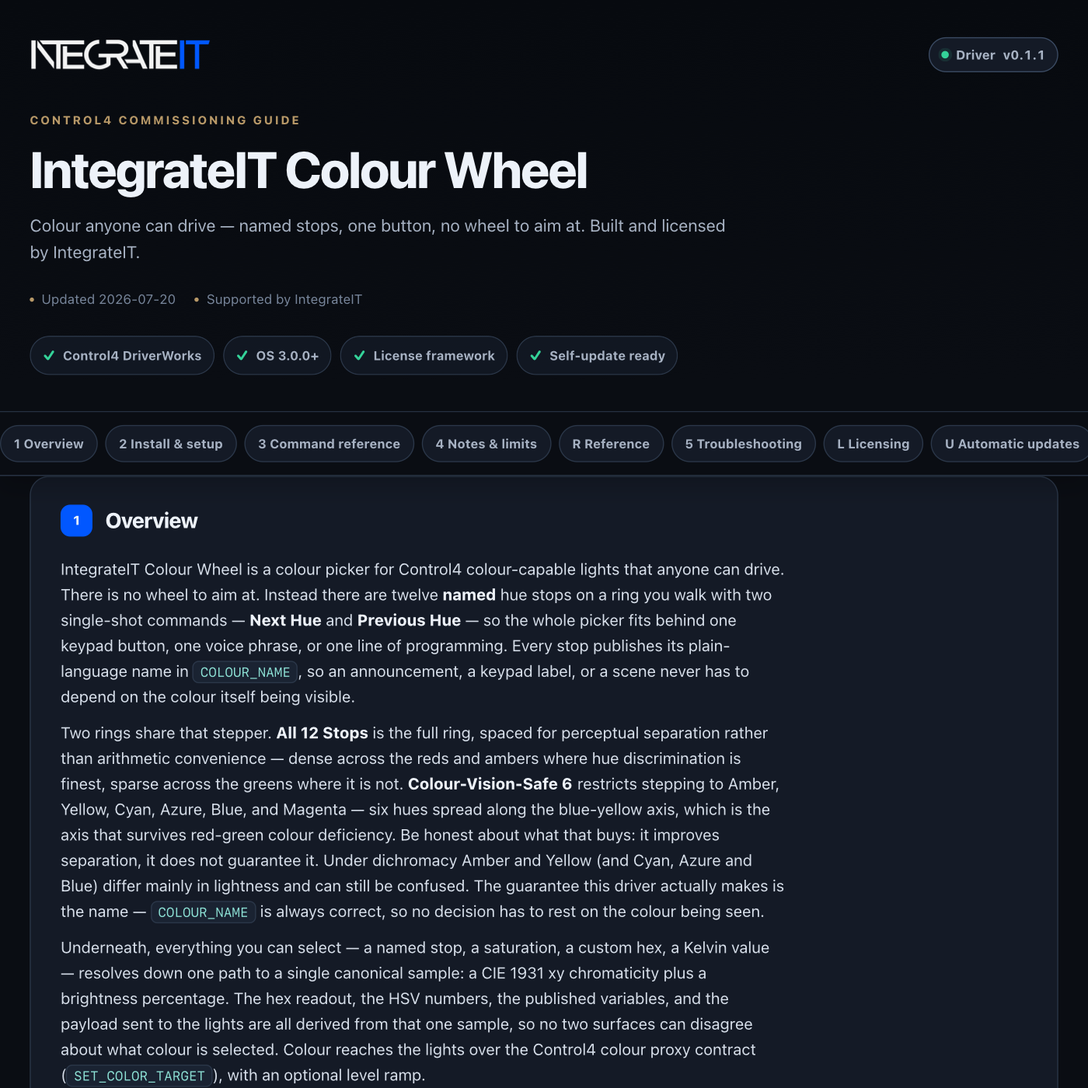
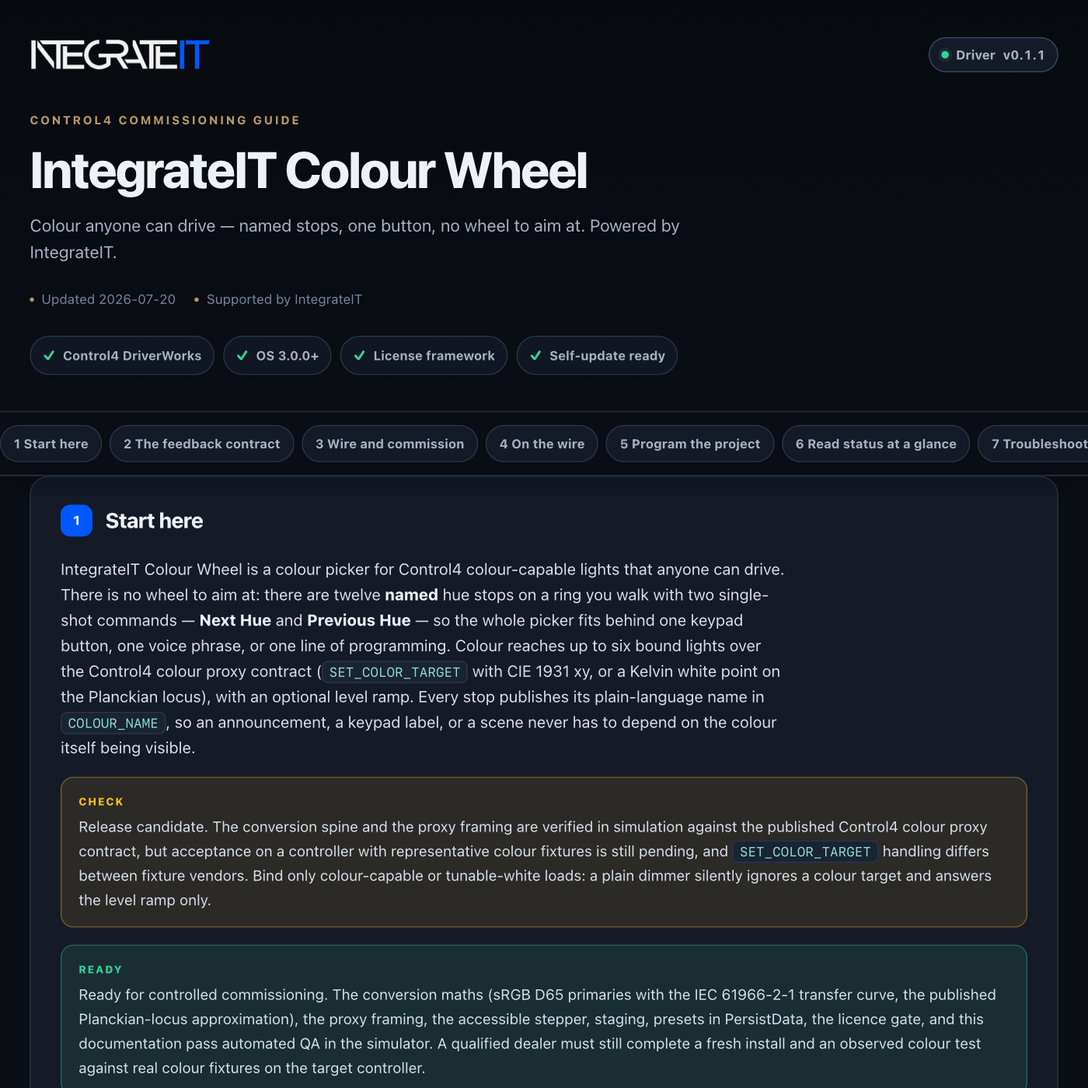
control4: publish driver channel (integrateit_colour_wheel 0.1.2)

diff --git a/control4/integrateit_colour_wheel/documentation.html b/control4/integrateit_colour_wheel/documentation.html
@@ -179,13 +179,13 @@ td code{white-space:normal}
     <div class="wrap">
       <div class="brandbar">
[1 lines of base64/hex data omitted]
-        <span class="version"><span class="word">Driver</span> v0.1.1</span>
+        <span class="version"><span class="word">Driver</span> v0.1.2</span>
       </div>
       <p class="eyebrow">Control4 commissioning guide</p>
       <h1>IntegrateIT Colour Wheel</h1>
-      <p class="sub">Colour anyone can drive — named stops, one button, no wheel to aim at. Built and licensed by IntegrateIT.</p>
+      <p class="sub">Colour anyone can drive — named stops, one button, no wheel to aim at. Powered by IntegrateIT.</p>
       <div class="meta">
-        <span>Updated 2026-07-20</span>
+        <span>Updated 2026-07-26</span>
         <span>Supported by IntegrateIT</span>
       </div>
       <div class="readiness" aria-label="Driver capabilities">
@@ -198,63 +198,125 @@ td code{white-space:normal}
   </header>
 
   <div class="toc-wrap">
-    <nav class="toc wrap" aria-label="Documentation sections"><a href="#overview">1 Overview</a><a href="#install">2 Install &amp; setup</a><a href="#commands">3 Command reference</a><a href="#notes">4 Notes &amp; limits</a><a href="#reference">R Reference</a><a href="#troubleshooting">5 Troubleshooting</a><a href="#licensing">L Licensing</a><a href="#updates">U Automatic updates</a><a href="#changelog">V Version history</a></nav>
+    <nav class="toc wrap" aria-label="Documentation sections"><a href="#overview">1 Start here</a><a href="#feedback">2 The feedback contract</a><a href="#setup">3 Wire and commission</a><a href="#protocol">4 On the wire</a><a href="#programming">5 Program the project</a><a href="#status">6 Read status at a glance</a><a href="#troubleshooting">7 Troubleshoot methodically</a><a href="#trust">8 Ownership, privacy, and licensing</a><a href="#reference">R Reference</a><a href="#licensing">L Licensing</a><a href="#updates">U Automatic updates</a><a href="#changelog">V Version history</a></nav>
   </div>
 
   <main class="wrap">
     <section class="card" id="overview" data-card="overview">
-  <h2><span class="n">1</span> Overview</h2>
-  <p>IntegrateIT Colour Wheel is a colour picker for Control4 colour-capable lights that anyone can drive. There is no wheel to aim at. Instead there are twelve <b>named</b> hue stops on a ring you walk with two single-shot commands — <b>Next Hue</b> and <b>Previous Hue</b> — so the whole picker fits behind one keypad button, one voice phrase, or one line of programming. Every stop publishes its plain-language name in <code>COLOUR_NAME</code>, so an announcement, a keypad label, or a scene never has to depend on the colour itself being visible.</p>
-  <p>Two rings share that stepper. <b>All 12 Stops</b> is the full ring, spaced for perceptual separation rather than arithmetic convenience — dense across the reds and ambers where hue discrimination is finest, sparse across the greens where it is not. <b>Colour-Vision-Safe 6</b> restricts stepping to Amber, Yellow, Cyan, Azure, Blue, and Magenta — six hues spread along the blue-yellow axis, which is the axis that survives red-green colour deficiency. Be honest about what that buys: it improves separation, it does not guarantee it. Under dichromacy Amber and Yellow (and Cyan, Azure and Blue) differ mainly in lightness and can still be confused. The guarantee this driver actually makes is the name — <code>COLOUR_NAME</code> is always correct, so no decision has to rest on the colour being seen.</p>
-  <p>Underneath, everything you can select — a named stop, a saturation, a custom hex, a Kelvin value — resolves down one path to a single canonical sample: a CIE 1931 xy chromaticity plus a brightness percentage. The hex readout, the HSV numbers, the published variables, and the payload sent to the lights are all derived from that one sample, so no two surfaces can disagree about what colour is selected. Colour reaches the lights over the Control4 colour proxy contract (<code>SET_COLOR_TARGET</code>), with an optional level ramp.</p>
+  <h2><span class="n">1</span> Start here</h2>
+  <p>IntegrateIT Colour Wheel is a colour picker for Control4 colour-capable lights that anyone can drive. There is no wheel to aim at: there are twelve <b>named</b> hue stops on a ring you walk with two single-shot commands — <b>Next Hue</b> and <b>Previous Hue</b> — so the whole picker fits behind one keypad button, one voice phrase, or one line of programming. Colour reaches up to six bound lights over the Control4 colour proxy contract (<code>SET_COLOR_TARGET</code> with CIE 1931 xy, or a Kelvin white point on the Planckian locus), with an optional level ramp. Every stop publishes its plain-language name in <code>COLOUR_NAME</code>, so an announcement, a keypad label, or a scene never has to depend on the colour itself being visible.</p>
+  <div class="note warn">Release candidate. The conversion spine and the proxy framing are verified in simulation against the published Control4 colour proxy contract, but acceptance on a controller with representative colour fixtures is still pending, and <code>SET_COLOR_TARGET</code> handling differs between fixture vendors. Bind only colour-capable or tunable-white loads: a plain dimmer silently ignores a colour target and answers the level ramp only.</div>
+  <div class="note good">Ready for controlled commissioning. The conversion maths (sRGB D65 primaries with the IEC 61966-2-1 transfer curve, the published Planckian-locus approximation), the proxy framing, the accessible stepper, staging, presets in PersistData, the licence gate, and this documentation pass automated QA in the simulator. A qualified dealer must still complete a fresh install and an observed colour test against real colour fixtures on the target controller.</div>
+  <p><b>What you get</b></p>
+  <ul>
+    <li>Twelve named hue stops on a perceptually-spaced ring — dense across the reds and ambers where hue discrimination is finest, sparse across the greens — stepped one button at a time, with no two-dimensional wheel to aim at</li>
+    <li>A <b>Colour-Vision-Safe 6</b> ring that restricts stepping to six hues along the blue-yellow axis, the axis that survives red-green colour deficiency</li>
+    <li>Every colour published by name (<code>COLOUR_NAME</code>) as well as by value, so a decision never has to rest on the colour being seen</li>
+    <li>One conversion spine — hue stop, saturation, custom hex, or Kelvin — resolving to a single CIE xy chromaticity plus a brightness, so no two readouts can disagree</li>
+    <li><b>Custom Colour (Hex)</b> accepting <code>#RRGGBB</code> and <code>#RGB</code>, raising an *Invalid Custom Colour* event on bad input and falling back cleanly to the hue stop</li>
+    <li>Full Colour (CIE xy) and Colour Temperature (2000-6500 K) modes across up to six bound lights, at a configurable transition rate</li>
+    <li>Four presets stored in PersistData that survive a controller reboot</li>
+    <li>MAC-locked IntegrateIT licensing with Lenient or Strict enforcement</li>
+  </ul>
 </section>
 
-<section class="card" id="install" data-card="install">
-  <h2><span class="n">2</span> Install &amp; setup</h2>
+<section class="card" id="feedback" data-card="feedback">
+  <h2><span class="n">2</span> The feedback contract</h2>
+  <p>This driver sends colour; it does not measure it. When you apply, it writes a CIE xy chromaticity (or a Kelvin white point) to every wired light and assumes the fixture obeyed. It has no way to confirm that, and it never pretends to.</p>
+  <ul>
+    <li><b>A non-colour-capable light silently ignores <code>SET_COLOR_TARGET</code>.</b> Nothing errors, nothing in the room changes. Bind only colour or tunable-white loads; a plain dimmer takes the optional level ramp and nothing else.</li>
+    <li><b><code>Reported Colour</code> is a passive readout, never a control signal.</b> A bound light can report <code>LIGHT_COLOR_CHANGED</code> / <code>LIGHT_COLOR_CHANGING</code>; the driver records it into <code>Reported Colour</code> and stops. It never re-applies from a report, so it does not detect or correct a fixture that has drifted — reconciling would ping-pong our send against the fixture's report forever, and rounding between our xy and the fixture's native space guarantees it never settles.</li>
+    <li><b>The driver never repaints a room on its own.</b> Boot, a Director restart, or editing <code>Number of Lights</code>, <code>Transition Rate (ms)</code>, or <code>Accessible Palette</code> refreshes the readouts only. Colour goes out when a colour property is edited (with <code>Apply On Change</code> = Yes), a stepper runs, <b>Apply Colour</b> runs, or a preset is recalled — never behind the homeowner's back.</li>
+    <li><b>The name is the guarantee, not the colour.</b> Colour-Vision-Safe 6 improves separation, it does not promise it: under dichromacy Amber and Yellow — and Cyan, Azure and Blue — differ mainly in lightness and can still be confused. The one thing this driver always gets right is the published name. <code>COLOUR_NAME</code> is always correct, so no decision has to rest on the colour being seen — anything claiming the colour itself is guaranteed distinguishable would be faking it.</li>
+  </ul>
+</section>
+
+<section class="card" id="setup" data-card="setup">
+  <h2><span class="n">3</span> Wire and commission</h2>
   <ol class="steps">
-    <li>Add the driver to a room. In Connections, bind each colour-capable light to <code>Light 1</code> … <code>Light N</code>.</li>
+    <li>Add <b>IntegrateIT Colour Wheel</b> to a room. In Connections, bind each colour-capable light to <code>Light 1</code> … <code>Light N</code> (up to six).</li>
     <li>Set <code>Number of Lights</code> to how many you wired. Bindings above that number are never driven.</li>
-    <li>Choose a <code>Colour Mode</code>. <b>Full Colour</b> picks a hue from the ring and sends CIE xy; <b>Colour Temperature</b> sends a white point on the Planckian locus between 2000 K and 6500 K.</li>
-    <li>Set <code>Accessible Palette</code>. Use <b>Colour-Vision-Safe 6</b> when the person operating the system has a red-green colour deficiency, or whenever the colour choice needs to survive being described over the phone.</li>
+    <li>Choose a <code>Colour Mode</code>: <b>Full Colour</b> picks a hue from the ring and sends CIE xy; <b>Colour Temperature</b> sends a white point on the Planckian locus between 2000 K and 6500 K.</li>
+    <li>Set <code>Accessible Palette</code>. Use <b>Colour-Vision-Safe 6</b> when the operator has a red-green colour deficiency, or whenever the choice needs to survive being described over the phone.</li>
     <li>Set <code>Transition Rate (ms)</code> for the fade, and <code>Set Light Level</code> to decide whether the driver also ramps each light to <code>Brightness (%)</code> or leaves level to your other programming.</li>
-    <li>Bind the accessible controls in Programming: put <b>Next Hue</b> on a keypad button, <b>Brighter</b> / <b>Dimmer</b> on a rocker, <b>Warmer</b> / <b>Cooler</b> on another pair. Each is a single command with no parameters, so a one-button remote, a voice scene, and a touch panel can all drive the same picker.</li>
-    <li>Optionally enter a <code>License Key</code> (see Licensing) — the driver runs in Lenient mode without one.</li>
+    <li>In Programming, put the accessible controls on hardware: <b>Next Hue</b> on a keypad button, <b>Brighter</b> / <b>Dimmer</b> on a rocker, <b>Warmer</b> / <b>Cooler</b> on another pair. Each is a single command with no parameters, so a one-button remote, a voice scene, and a touch panel all drive the same picker.</li>
+    <li>Optionally enter a licence key (see Ownership) — the driver runs in Lenient mode without one.</li>
+    <li>Prove it: run <b>Apply Colour</b>, or step <b>Next Hue</b>, and watch a bound light change while <code>Colour Name</code> updates. Then run <b>Announce Colour</b> to hear the picker read the colour back by name.</li>
   </ol>
 </section>
 
-<section class="card" id="commands" data-card="commands">
-  <h2><span class="n">3</span> Command reference</h2>
+<section class="card" id="protocol" data-card="protocol">
+  <h2><span class="n">4</span> On the wire</h2>
+  <p>Every apply sends <code>SET_COLOR_TARGET</code> to each wired binding, and <code>RAMP_TO_LEVEL</code> too when <code>Set Light Level</code> is Yes. What travels depends on the mode:</p>
+  <table>
+    <tr><th>Mode</th><th>Parameters on <code>SET_COLOR_TARGET</code></th></tr>
+    <tr><td>Full Colour</td><td><code>LIGHT_COLOR_TARGET_X</code> / <code>_Y</code> = CIE 1931 xy, <code>LIGHT_COLOR_TARGET_COLOR_MODE</code> = <code>0</code>, <code>RATE</code> = transition ms</td></tr>
+    <tr><td>Colour Temperature</td><td><code>LIGHT_COLOR_TARGET_X</code> = Kelvin, <code>_Y</code> = <code>0</code>, <code>LIGHT_COLOR_TARGET_COLOR_MODE</code> = <code>1</code>, <code>RATE</code> = transition ms</td></tr>
+  </table>
+  <p>The level ramp is <code>RAMP_TO_LEVEL</code> with <code>LEVEL</code> = <code>Brightness (%)</code> and <code>TIME</code> = the transition rate. Lights report back with <code>LIGHT_COLOR_CHANGED</code> / <code>LIGHT_COLOR_CHANGING</code> carrying <code>LIGHT_COLOR_CURRENT_X</code> / <code>_Y</code> / <code>_COLOR_MODE</code>, which the driver reads into <code>Reported Colour</code> and never answers.</p>
+  <div class="note warn">Colour Temperature mode carries the Kelvin value in the target X parameter with colour mode 1, per the proxy contract. Fixtures that accept only CIE xy should be driven in Full Colour mode instead.</div>
+</section>
+
+<section class="card" id="programming" data-card="programming">
+  <h2><span class="n">5</span> Program the project</h2>
   <table>
     <tr><th>Action</th><th>What it does</th></tr>
     <tr><td>Apply Colour</td><td>Push the current selection to every wired light.</td></tr>
-    <tr><td>Next Hue / Previous Hue</td><td>Step one named stop along the active ring, wrapping at the ends. Switches to Full Colour mode if the driver was on the Kelvin locus.</td></tr>
+    <tr><td>Next Hue / Previous Hue</td><td>Step one named stop along the active ring, wrapping at the ends. Switches to Full Colour and clears <code>Custom Colour (Hex)</code> — a hue press is an explicit request for a named stop.</td></tr>
     <tr><td>Warmer / Cooler</td><td>Step <code>Colour Temperature (K)</code> by 250 K, clamped to 2000-6500. Switches to Colour Temperature mode.</td></tr>
-    <tr><td>Brighter / Dimmer</td><td>Step <code>Brightness (%)</code> by 10, clamped to 1-100.</td></tr>
-    <tr><td>Save Preset / Recall Preset</td><td>Store or restore the whole selection in the slot named by <code>Preset Slot</code>. Presets survive a controller reboot.</td></tr>
-    <tr><td>Announce Colour</td><td>Print the current colour — name, hex, chromaticity, brightness — to the Lua output window and to <code>Status</code>. Works without a license because it drives nothing.</td></tr>
-    <tr><td>Print Configuration</td><td>Print the full picker configuration, including which preset slots are filled.</td></tr>
+    <tr><td>Brighter / Dimmer</td><td>Step <code>Brightness (%)</code> by 10, clamped to 1-100. Only reaches a fixture when <code>Set Light Level</code> is Yes.</td></tr>
+    <tr><td>Save Preset / Recall Preset</td><td>Store or restore the whole selection in the slot named by <code>Preset Slot</code>. A recall applies even when <code>Apply On Change</code> is No — recalling is itself the request.</td></tr>
+    <tr><td>Announce Colour</td><td>Print the current colour — name, hex, chromaticity, brightness — to the Lua window and <code>Status</code>. Works unlicensed because it drives nothing.</td></tr>
+    <tr><td>Print Configuration</td><td>Print the full picker configuration, including whether the selected preset slot is filled.</td></tr>
   </table>
-  <p><b>Events:</b> *Colour Applied*, *Hue Stop Changed*, *Colour Mode Changed*, *Preset Saved*, *Preset Recalled*, *Invalid Custom Colour*. <b>Variables:</b> <code>COLOUR_NAME</code>, <code>COLOUR_HEX</code>, <code>COLOUR_HUE</code>, <code>COLOUR_SATURATION</code>, <code>COLOUR_BRIGHTNESS</code>, <code>COLOUR_KELVIN</code>, <code>COLOUR_CIE_X</code>, <code>COLOUR_CIE_Y</code>, <code>COLOUR_MODE</code>.</p>
+  <p><b>Events:</b> *Colour Applied*, *Hue Stop Changed*, *Colour Mode Changed*, *Preset Saved*, *Preset Recalled*, *Invalid Custom Colour*.</p>
+  <p><b>Variables:</b> <code>COLOUR_NAME</code>, <code>COLOUR_HEX</code>, <code>COLOUR_HUE</code>, <code>COLOUR_SATURATION</code>, <code>COLOUR_BRIGHTNESS</code>, <code>COLOUR_KELVIN</code>, <code>COLOUR_CIE_X</code>, <code>COLOUR_CIE_Y</code>, <code>COLOUR_MODE</code>.</p>
+  <ul>
+    <li><b>One-button colour cycle.</b> Bind a keypad button to <b>Next Hue</b>. Each press walks the active ring and fires *Hue Stop Changed*; speak <code>COLOUR_NAME</code> on that event so a voice scene names the new colour.</li>
+    <li><b>Accessible scene by name.</b> On *Colour Applied*, push <code>COLOUR_NAME</code> and <code>COLOUR_HEX</code> to a keypad label or an announcement — the colour stays legible even to someone who cannot see it.</li>
+    <li><b>Guard a typed colour.</b> Watch *Invalid Custom Colour* to learn that a hex did not parse and the driver fell back to the hue stop; light a "check the hex" indicator instead of leaving the operator guessing.</li>
+  </ul>
+  <div class="note"><code>Custom Colour (Hex)</code> contributes hue and saturation only — its value is ignored on purpose so <code>Brightness (%)</code> owns level and dimming never shifts the hue. <code>Saturation (%)</code> = 0 is white (the D65 point) whatever hue stop is selected, and a grey custom hex resolves to <code>Custom White</code>.</div>
 </section>
 
-<section class="card" id="notes" data-card="notes">
-  <h2><span class="n">4</span> Notes &amp; limits</h2>
-  <ul>
-    <li><b>The driver never repaints a room on its own.</b> Loading the driver, restarting Director, or editing <code>Number of Lights</code>, <code>Transition Rate (ms)</code>, or <code>Accessible Palette</code> refreshes the readouts only. Colour goes out when a colour property is edited (with <code>Apply On Change</code> = Yes), when a stepper action runs, when <b>Apply Colour</b> runs, or when a preset is recalled.</li>
-    <li><b><code>Apply On Change</code> = No stages instead.</b> The readouts and variables preview the staged colour and <code>Status</code> says so, but no light is touched until <b>Apply Colour</b> runs. A <b>Recall Preset</b> applies regardless — recalling is itself the request.</li>
-    <li><b>A hue step retires <code>Custom Colour (Hex)</code>.</b> The hex outranks the hue stop, so stepping the ring underneath one would move the selection and repaint nothing. <b>Next Hue</b> / <b>Previous Hue</b> clear the field and say so in <code>Status</code> — pressing a hue button is an explicit request for a named stop. A custom hex names itself by its nearest named stop (<code>Custom Azure</code>), never by its hex code, so it stays speakable.</li>
-    <li><b><code>Brighter</code> / <code>Dimmer</code> need <code>Set Light Level</code> = Yes.</b> Brightness only reaches a fixture through the level ramp. With <code>Set Light Level</code> = No the step is recorded and published but nothing is sent, and <code>Status</code> says so rather than reporting a push.</li>
-    <li><b>Presets are controller-local.</b> They live in <code>PersistData</code>, which is not carried in a Composer project export. Restoring a project onto a different controller starts with four empty slots.</li>
-    <li><b><code>Custom Colour (Hex)</code> contributes hue and saturation only.</b> Its value component is deliberately ignored so <code>Brightness (%)</code> owns level and dimming never shifts the hue. <code>#RRGGBB</code> and <code>#RGB</code> are both accepted; a grey hex has no hue to take and resolves to white. Anything unparseable raises *Invalid Custom Colour* and the selected hue stop is used instead. Leave the field blank to use the ring.</li>
-    <li><b><code>Saturation (%)</code> = 0 is white</b> — the D65 white point — whatever hue stop is selected.</li>
-    <li><b>Restricting the ring does not move you.</b> Switching to Colour-Vision-Safe 6 while parked on an excluded stop leaves the current colour alone; the next <b>Next Hue</b> / <b>Previous Hue</b> walks into the restricted set in the direction you pressed.</li>
-    <li><b><code>Reported Colour</code> is passive.</b> It shows what a bound light last reported and nothing more. The driver never re-applies from a report — doing so would loop against the fixture forever — so it does not detect or correct a light that has drifted.</li>
-    <li><b>Colour Temperature mode</b> sends the Kelvin value in the target X parameter with colour mode 1. Fixtures that accept only CIE xy should be driven in Full Colour mode.</li>
-    <li><b><code>Colour Hex</code> is a readout.</b> It renders the selected chromaticity in sRGB at full value; chromaticities outside the sRGB gamut (reachable at the Kelvin extremes) are clipped for that readout only. The xy sent to the light is never clipped.</li>
-  </ul>
+<section class="card" id="status" data-card="status">
+  <h2><span class="n">6</span> Read status at a glance</h2>
+  <table>
+    <tr><th>Readout</th><th>What it means</th></tr>
+    <tr><td><code>Colour Name</code></td><td>Plain-language name of the current colour — a named stop, <code>Custom Azure</code>, or <code>2700 K Warm White</code>. Starts at <code>Not applied</code>.</td></tr>
+    <tr><td><code>Colour Hex</code></td><td>The current chromaticity rendered as sRGB hex at full value. A preview only, gamut-clipped at the Kelvin extremes; the xy sent to the light is never clipped. Starts at <code>Not applied</code>.</td></tr>
+    <tr><td><code>Colour Point</code></td><td>The CIE xy actually sent (plus Kelvin, in Colour Temperature mode). Trust this over <code>Colour Hex</code> for what the fixture receives. Starts at <code>Not applied</code>.</td></tr>
+    <tr><td><code>Reported Colour</code></td><td>What a bound light last reported. Passive — the driver never re-applies from it. Starts at <code>No report</code>.</td></tr>
+    <tr><td><code>Status</code></td><td>The last thing that happened: <code>Idle</code>, an apply line, <code>Staged … - run Apply Colour</code>, or a caveat (a bad hex, or <code>Set Light Level</code> is No so no level was sent).</td></tr>
+    <tr><td><code>License Status</code></td><td>Activated, or Lenient during commissioning. Enter a key before selecting Strict enforcement.</td></tr>
+  </table>
+  <p>The nine variables mirror the readouts for programming and always agree with each other, because they come from the one resolved sample — drive automation from <code>COLOUR_MODE</code>, <code>COLOUR_NAME</code>, and <code>COLOUR_KELVIN</code> with confidence. <b>Print Configuration</b> dumps the whole picker state — lights, rate, mode, ring, selection, last applied, last reported, and which preset slot is filled — to the Lua output window, and never prints the license key.</p>
+</section>
+
+<section class="card" id="troubleshooting" data-card="troubleshooting">
+  <h2><span class="n">7</span> Troubleshoot methodically</h2>
+  <table>
+    <tr><th>Symptom</th><th>Likely cause</th><th>Fix</th></tr>
+    <tr><td>Nothing happens at all</td><td>Strict enforcement on an unlicensed controller</td><td>Check <code>License Status</code>; Lenient mode keeps control enabled without a key.</td></tr>
+    <tr><td>A light does not change colour</td><td>Not colour-capable, or the binding is above <code>Number of Lights</code></td><td>Bind a colour or tunable-white load; raise <code>Number of Lights</code> to cover every wired binding.</td></tr>
+    <tr><td>Colour changes but level does not</td><td><code>Set Light Level</code> is No</td><td>Set it to Yes, or drive level from your own programming.</td></tr>
+    <tr><td>Nothing goes out when a property is edited</td><td><code>Apply On Change</code> is No</td><td>Run <b>Apply Colour</b>, or set <code>Apply On Change</code> to Yes. A <b>Recall Preset</b> applies regardless.</td></tr>
+    <tr><td>Next Hue does not change the lights</td><td><code>Apply On Change</code> is No, so the step only staged, or the bound light is not colour-capable</td><td>Read <code>Hue Stop</code> and <code>Colour Name</code> — a step always advances them, so the press did register; run <b>Apply Colour</b> if you are staging, and confirm the load is colour-capable.</td></tr>
+    <tr><td>The custom colour is ignored</td><td><code>Custom Colour (Hex)</code> did not parse, or the driver is in Colour Temperature mode</td><td>Check <code>Status</code> and the *Invalid Custom Colour* event; use <code>#RRGGBB</code>, and switch <code>Colour Mode</code> to Full Colour.</td></tr>
+    <tr><td>The white looks wrong at the extremes</td><td>2000 K and 6500 K sit near the edge of an sRGB readout</td><td>Trust <code>Colour Point</code> (the xy actually sent) over <code>Colour Hex</code> (the rendered preview).</td></tr>
+    <tr><td>A recalled preset comes up empty</td><td>Presets live in PersistData, which is not carried in a project export</td><td>Presets are controller-local; re-save them after restoring a project onto a different controller.</td></tr>
+  </table>
+  <div class="note">Turn on <code>Debug Mode → Print</code> to watch colour reports arrive from the lights, and run <b>Print Configuration</b> for a one-shot dump of the whole picker state. If a colour still will not land after these checks, contact support@integrateit.tech.</div>
+</section>
+
+<section class="card" id="trust" data-card="trust">
+  <h2><span class="n">8</span> Ownership, privacy, and licensing</h2>
+  <p>This package is an original IntegrateIT implementation of the documented Control4 colour proxy contract (<code>SET_COLOR_TARGET</code> / <code>RAMP_TO_LEVEL</code> on a LIGHT_V2 binding). The conversion maths are public standards — sRGB D65 primaries with the IEC 61966-2-1 transfer curve, and the published cubic approximation of the Planckian locus. It bundles no other vendor's runtime, source, brand assets, trial system, or license. Driver engineering, Control4 integration, the accessible design, documentation, QA, licensing, updates, and support are provided by IntegrateIT.</p>
+  <p>Nothing leaves the LAN. The driver sends colour targets to your bound Control4 lights and reads their colour reports back; no colour, project identity, or Control4 credential is sent to any device vendor or off-controller service. Presets live in this controller's PersistData, which is not carried in a Composer project export — restoring a project onto a different controller starts with four empty slots. The shared IntegrateIT license and update services use the controller identity, driver slug, version, configured license key, and update channel as documented in the reference below; the license key is never logged.</p>
+  <p>Lenient mode allows commissioning without an activated key and keeps <code>License Status</code> visible. Strict mode blocks every path that drives a light — Apply, the steppers, Save / Recall Preset — until the Ops Portal has minted and validated a key for that controller; <b>Announce Colour</b> and <b>Print Configuration</b> stay available either way, because they read the picker without touching a light. Installing this package does not itself mint or activate a controller license.</p>
 <section class="card" id="reference" data-card="reference">
   <h2><span class="n">R</span> Reference</h2>
-  <p>Generated from the driver manifest at build time — always matches this build (v0.1.1).</p>
+  <p>Generated from the driver manifest at build time — always matches this build (v0.1.2).</p>
   <h3>Properties</h3>
   <table>
     <tr><th>Property</th><th>Type</th><th>Default</th><th>Description</th></tr>
@@ -322,21 +384,6 @@ td code{white-space:normal}
   </table>
 </section>
 </section>
-
-<section class="card" id="troubleshooting" data-card="troubleshooting">
-  <h2><span class="n">5</span> Troubleshooting</h2>
-  <table>
-    <tr><th>Symptom</th><th>Likely cause</th><th>Fix</th></tr>
-    <tr><td>A light does not change colour</td><td>It is not colour-capable, or the binding is above <code>Number of Lights</code></td><td>Bind a colour or tunable-white load; raise <code>Number of Lights</code> to cover every wired binding.</td></tr>
-    <tr><td>Colour changes but level does not</td><td><code>Set Light Level</code> is No</td><td>Set it to Yes, or drive level from your own programming.</td></tr>
-    <tr><td>Nothing goes out when a property is edited</td><td><code>Apply On Change</code> is No</td><td>Run <b>Apply Colour</b>, or set <code>Apply On Change</code> to Yes.</td></tr>
-    <tr><td>Next Hue seems to do nothing</td><td>The colour-vision-safe ring was on and the step landed where you already were, or the light is not colour-capable</td><td>Check <code>Hue Stop</code> and <code>Colour Name</code> after the press — they are the ground truth for what the button did.</td></tr>
-    <tr><td>The custom colour is ignored</td><td><code>Custom Colour (Hex)</code> did not parse, or the driver is in Colour Temperature mode</td><td>Check <code>Status</code> and the *Invalid Custom Colour* event; use <code>#RRGGBB</code>, and switch <code>Colour Mode</code> to Full Colour.</td></tr>
-    <tr><td>The white looks wrong at the extremes</td><td>2000 K and 6500 K sit near the edge of what an sRGB readout can show</td><td>Trust <code>Colour Point</code> (the xy actually sent) over <code>Colour Hex</code> (the rendered preview).</td></tr>
-    <tr><td>Nothing happens at all</td><td>Strict enforcement + unlicensed</td><td>Check <code>License Status</code>; Lenient mode keeps control enabled without a key.</td></tr>
-  </table>
-  <div class="note">Turn on <code>Debug Mode → Print</code> to watch colour reports arrive from the lights, and run <b>Print Configuration</b> for a one-shot dump of the whole picker state.</div>
-</section>
 <section class="card" id="licensing" data-card="licensing">
   <h2><span class="n">L</span> Licensing</h2>
   <p>This driver is licensed <b>per controller</b>. Each license key locks to one controller's
@@ -384,7 +431,9 @@ td code{white-space:normal}
     <section class="card" id="changelog" data-card="changelog">
   <h2><span class="n">V</span> Version history</h2>
   <div class="chg">
-    <div class="rel"><b>v0.1.1</b> <span class="pill green">current</span><span class="d">2026-07-20</span>
+    <div class="rel"><b>v0.1.2</b> <span class="pill green">current</span><span class="d">2026-07-26</span>
+      <ul><li>Documentation rebuilt to the IntegrateIT commissioning-guide standard: uniform sections, honest contracts, verified claim-by-claim against the code.</li></ul></div>
+    <div class="rel"><b>v0.1.1</b><span class="d">2026-07-20</span>
       <ul><li>**Next Hue / Previous Hue were dead buttons under a custom hex.** `Custom Colour (Hex)` outranks the hue stop in the resolve spine, so a step moved the property, fired *Hue Stop Changed*, and pushed the same colour — the picker announced a stop the room did not show. A step now retires the override and says so; pressing a hue button is an explicit request for a named stop.</li><li>**Property echoes applied a second time.** `C4:UpdateProperty` calls back into `OnPropertyChanged` on a controller, which the simulator's stub does not model. A preset recall writes six watched properties before its own deliberate apply — seven colour pushes and seven *Colour Applied* events for one press, 42 proxy commands across six lights. Internal writes now run under a re-entrancy guard that `OnDevicePropertyChanged` honours.</li><li>**A recall of a legacy or truncated preset could error mid-restore.** `PersistData` outlives the code that wrote it; stored fields went straight to `UpdateProperty`, where a nil throws and a `tostring(nil)` leaves the literal string "nil" in a dealer's property. Every field is now coerced and clamped, and a non-table slot reads as empty.</li><li>**A custom hex named itself with its hex code.** "Custom #4488CC" is a value, not a name, and a speakable name is this driver's entire accessibility premise. Custom colours now name themselves by nearest named stop ("Custom Azure"); the exact value stays in `COLOUR_HEX`.</li><li>**Brighter / Dimmer were silently invisible with `Set Light Level` = No.** Brightness only reaches a fixture through the level ramp. The step is still recorded and published, but `Status` now admits no level was sent instead of reporting a colour push.</li><li>**The Colour-Vision-Safe 6 claim overclaimed.** Six hues on the blue-yellow axis survive red-green deficiency far better than the full ring, but they are not mutually distinguishable under dichromacy — Amber/Yellow and Cyan/Azure/Blue differ mainly in lightness. Catalog copy, limitations, and documentation now say what is true, and name the published `COLOUR_NAME` as the guarantee that actually holds. Two further real limitations documented: the hue-step/hex interaction, and that presets are controller-local because `PersistData` is not carried in a project export.</li></ul></div>
     <div class="rel"><b>v0.1.0</b><span class="d">2026-07-20</span>
       <ul><li>First cut. An accessible colour picker for Control4 colour-capable lights: twelve named hue stops on a perceptually-spaced ring, walked with single-shot Next Hue / Previous Hue commands rather than a two-dimensional wheel, plus a Colour-Vision-Safe 6 ring for red-green colour deficiency.</li><li>One conversion spine — hue stop, saturation, custom hex, or Kelvin all resolve to a single (CIE 1931 xy, brightness) sample — feeding the sRGB hex readout, the HSV numbers, the nine published variables, and the proxy payload, so no two surfaces can disagree about the selected colour.</li><li>Drives up to six bound lights over the Control4 colour proxy contract: SET_COLOR_TARGET with CIE xy at colour mode 0 or Kelvin at colour mode 1, plus an optional RAMP_TO_LEVEL at the configured transition rate.</li><li>Four presets in PersistData that survive a controller reboot; Warmer / Cooler / Brighter / Dimmer steppers with range clamping; Announce Colour as an unlicensed-safe readout.</li><li>Colour reports from the lights are recorded as a passive readout and never re-applied, so the driver cannot ping-pong against a fixture.</li><li>Boot publishes the readouts but drives no light: a Director restart never repaints a room the homeowner set by hand.</li><li>Every control path is gated on the shared MAC-locked LicenseGate().</li></ul></div>

diff --git a/control4/integrateit_colour_wheel/CHANGELOG.md b/control4/integrateit_colour_wheel/CHANGELOG.md
@@ -1,5 +1,8 @@
 # Changelog — IntegrateIT Colour Wheel
 
+## [0.1.2] - 2026-07-26
+- Documentation rebuilt to the IntegrateIT commissioning-guide standard: uniform sections, honest contracts, verified claim-by-claim against the code.
+
 ## [0.1.1] - 2026-07-20
 Adversarial review of the first cut. Six defects, all with regression cases.
 - **Next Hue / Previous Hue were dead buttons under a custom hex.** `Custom Colour (Hex)` outranks the hue stop in the resolve spine, so a step moved the property, fired *Hue Stop Changed*, and pushed the same colour — the picker announced a stop the room did not show. A step now retires the override and says so; pressing a hue button is an explicit request for a named stop.
